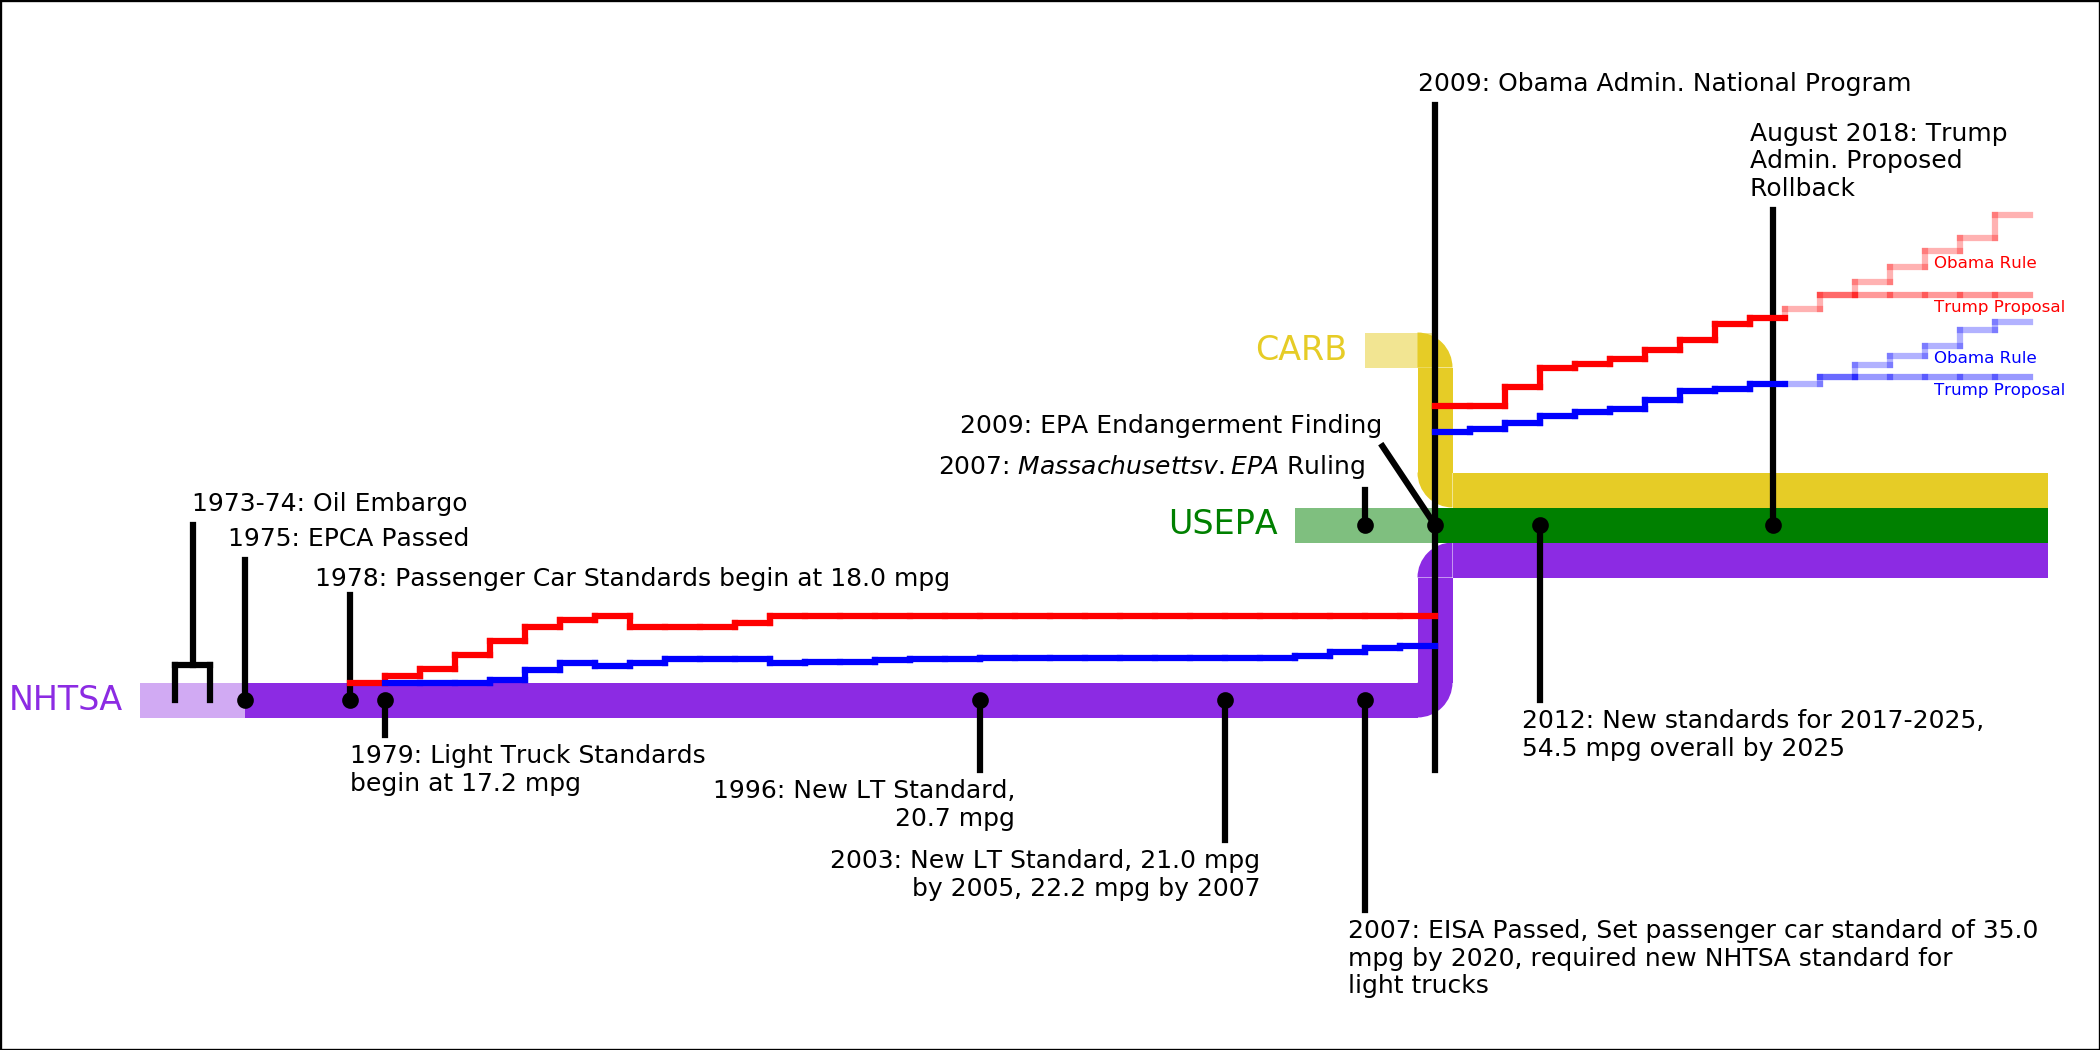
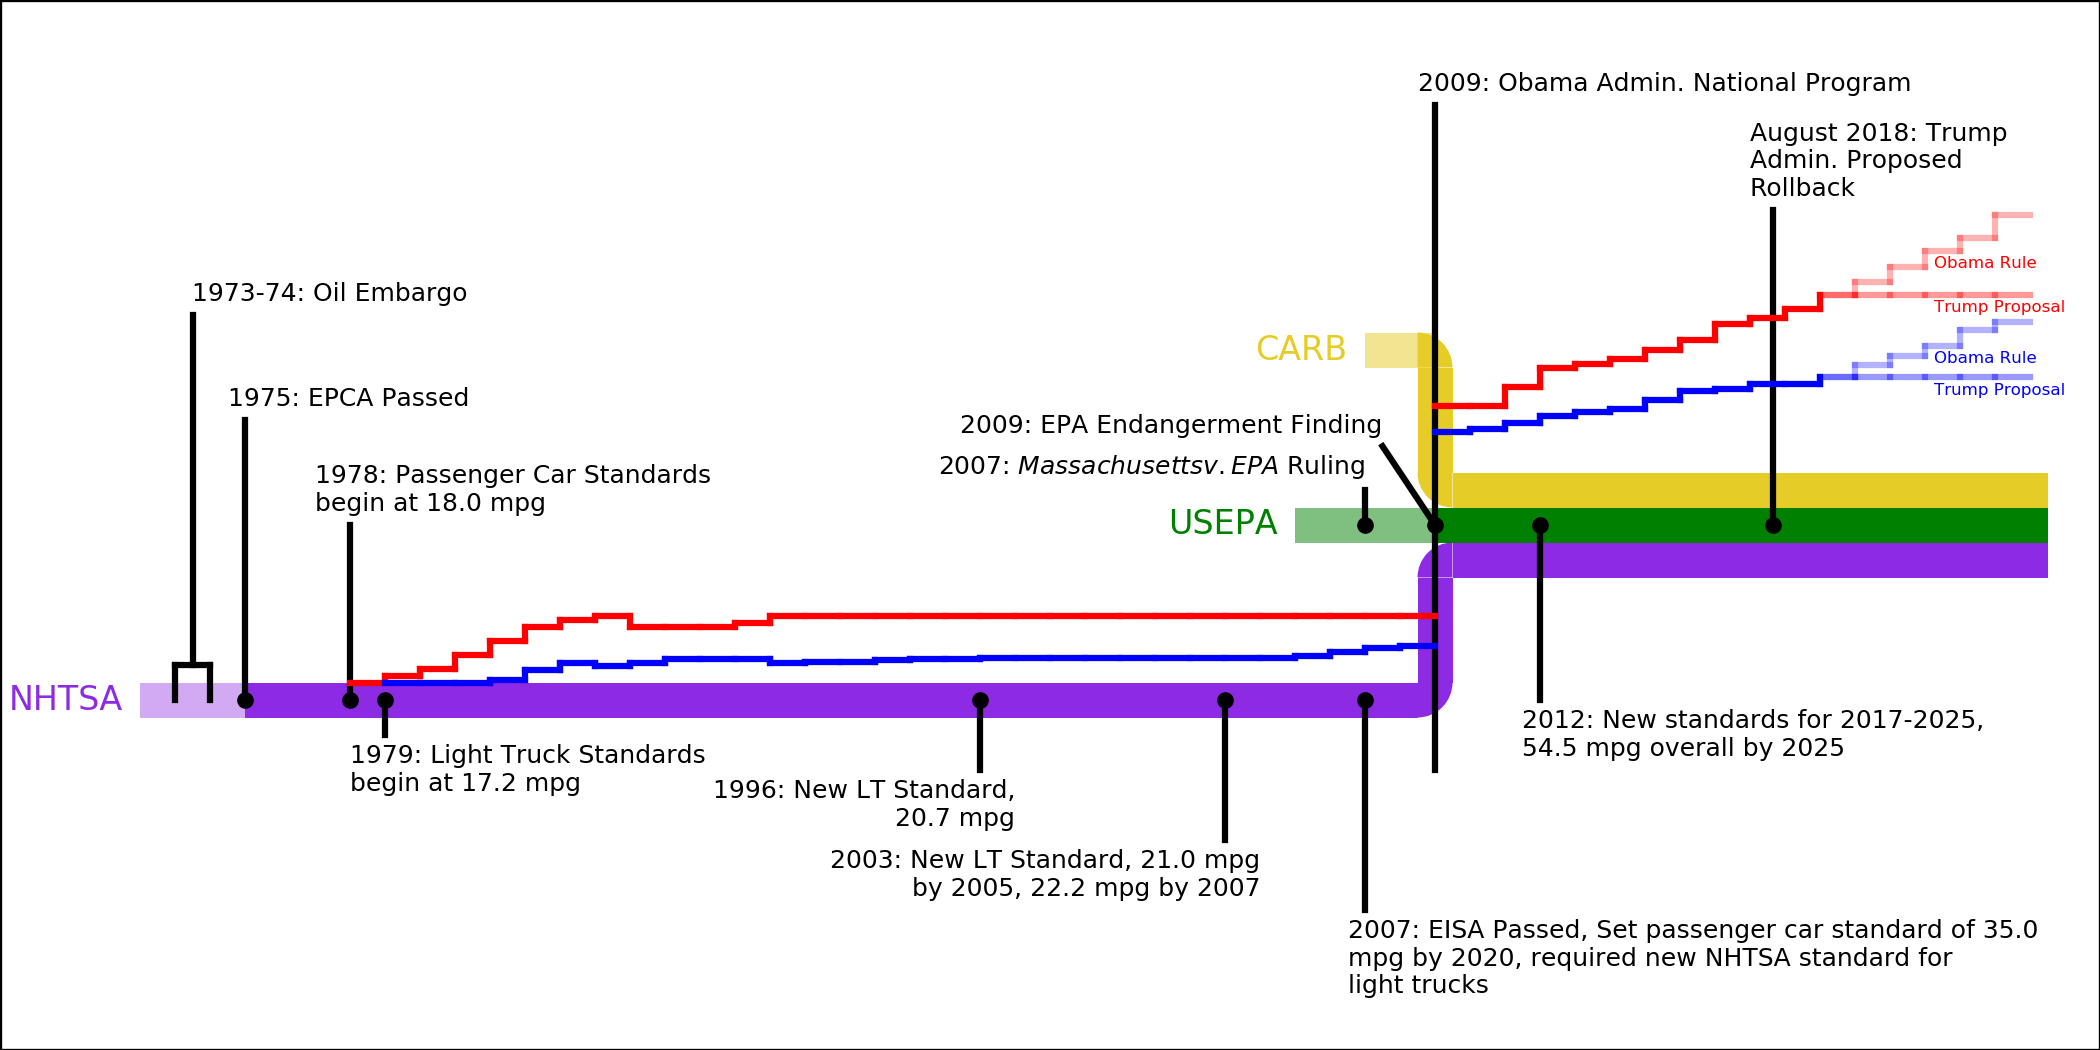
update timeline figure options

diff --git a/timelineFigureNHTSAFlat.py b/timelineFigureNHTSAFlat.py
@@ -46,13 +46,14 @@ def makeAFigure():
 	y_epa = 0
 	y_ca = 5
 
-	y_merged = y_epa 
-	 
+	
 	x_merge = 2009
 
 	fs = 6
-	lineH = 1
+	lineH = 0.5
 	tickH = 1
+
+	y_merged = y_nhtsa + lineH#y_epa 
 
 	data = pd.read_csv("NHTSACAFEData14Aug2019.csv")
 	car = data[data.Year > 1977]
@@ -87,9 +88,9 @@ def makeAFigure():
 	truckTrump['Year'] = yr
 
 	prenhtsa_line = plt.Rectangle((1972, y_nhtsa-lineH/2),3, lineH, color = nhtsa, linewidth = 0, alpha = 0.4)
-	nhtsa_line = plt.Rectangle((1975, y_nhtsa-lineH/2), (x_merge-1975-0.5), lineH, color = nhtsa, linewidth = 0, alpha = 1)
+	nhtsa_line = plt.Rectangle((1975, y_nhtsa-lineH/2), (x_merge-1975), lineH, color = nhtsa, linewidth = 0, alpha = 1)
 	nhtsa_connector = plt.Rectangle((x_merge-lineH/2, y_nhtsa+lineH/2), lineH, y_merged-y_nhtsa-2*lineH, color = nhtsa, linewidth=0)
-	mergednhtsa_line = plt.Rectangle((x_merge+0.5, y_merged-3*lineH/2), (2026.5-x_merge-0.5), lineH, color = nhtsa, linewidth = 0, alpha = 1)
+	mergednhtsa_line = plt.Rectangle((x_merge, y_merged-3*lineH/2), (2026.5-x_merge), lineH, color = nhtsa, linewidth = 0, alpha = 1)
 	plt.text(1971.5, y_nhtsa, 'NHTSA', color = nhtsa, fontsize = fs+2, horizontalalignment = 'right', verticalalignment = 'center')
 
 	nhtsaW1 = mpatches.Wedge((x_merge-0.5, y_nhtsa+lineH/2), lineH, 270, 360, color = nhtsa, linewidth = 0)
@@ -116,7 +117,7 @@ def makeAFigure():
 
 		plt.plot(1996, y_nhtsa, '.k') #light trucks only 
 		plt.plot((1996, 1996), (y_nhtsa, y_nhtsa-2*lineH), '-k')
-		plt.text(1997, y_nhtsa-2.25*lineH, '1996: New LT Standard,\n20.7 mpg', fontsize = fs, horizontalalignment = 'right', verticalalignment = 'top')
+		plt.text(1998, y_nhtsa-2.25*lineH, '1996: New LT Standard,\n20.7 mpg', fontsize = fs, horizontalalignment = 'right', verticalalignment = 'top')
 
 		plt.plot(2003, y_nhtsa, '.k')
 		plt.plot((2003, 2003), (y_nhtsa, y_nhtsa-4*tickH), '-k')
@@ -127,9 +128,11 @@ def makeAFigure():
 		plt.text(2007-0.5, y_nhtsa-6.25*tickH, '2007: EISA Passed, Set passenger car standard of 35.0\nmpg by 2020, required new NHTSA standard for\nlight trucks', fontsize = fs, horizontalalignment = 'left', verticalalignment = 'top')#, rotation = 90)
 	addNHTSADates()
 
-	prepa_line = plt.Rectangle((2005, y_epa-lineH/2), 2009-2005, lineH, color = epa, linewidth = 0, alpha = 0.5)
-	#epa_line = plt.Rectangle((2009, y_epa-lineH/2), 2, lineH, color = epa, linewidth = 0, alpha = 1)
-	mergedepa_line = plt.Rectangle((x_merge, y_merged-lineH/2), (2026.5-x_merge), lineH, color = epa, linewidth = 0, alpha = 1)
+	prepa_line = plt.Rectangle((2005, y_epa-lineH/2), 2009-2005-lineH, lineH, color = epa, linewidth = 0, alpha = 0.5)
+	mergedepa_line = plt.Rectangle((x_merge+lineH/2, y_merged-lineH/2), (2026.5-x_merge-lineH/2), lineH, color = epa, linewidth = 0, alpha = 1)
+	epaW1 = mpatches.Wedge((x_merge-lineH, y_epa-lineH/2), lineH, 0, 90, color = epa, linewidth = 0)
+	epaW2 = mpatches.Wedge((x_merge+lineH, y_merged+3*lineH/2), lineH*2, 180, 270, color = epa, linewidth = 0)
+	epa_connector = plt.Rectangle((x_merge-lineH, y_merged+lineH), lineH, y_epa-y_merged-lineH, color = epa, linewidth=0)
 
 	def addEPADates():
 		plt.plot(2009, y_epa, '.k')
@@ -144,27 +147,27 @@ def makeAFigure():
 	preca_line = plt.Rectangle((2007, y_ca-lineH/2), 2009-2007, lineH, color = ca, linewidth = 0, alpha = 0.5)
 	#ca_line = plt.Rectangle((2005, y_ca-lineH/2), x_merge-2005-0.5, lineH, color = ca, linewidth = 0, alpha = 1)
 	mergedca_line = plt.Rectangle((x_merge+0.5, y_merged+lineH/2), 2026.5-x_merge-0.5, lineH, color = ca, linewidth = 0, alpha = 1)
-	caW1 = mpatches.Wedge((x_merge-lineH/2, y_ca-lineH/2), lineH, 0, 90, color = ca, linewidth = 0)
-	caW2 = mpatches.Wedge((x_merge+lineH/2, y_merged + 3*lineH/2), lineH, 180, 270, color = ca, linewidth = 0)
-	ca_connector = plt.Rectangle((x_merge-lineH/2, y_merged+3*lineH/2), lineH, y_ca-y_merged-2*lineH, color = ca, linewidth=0)
+	caW1 = mpatches.Wedge((x_merge, y_ca-lineH/2), lineH, 0, 90, color = ca, linewidth = 0)
+	caW2 = mpatches.Wedge((x_merge+lineH, y_merged + 3*lineH/2), lineH, 180, 270, color = ca, linewidth = 0)
+	ca_connector = plt.Rectangle((x_merge, y_merged+3*lineH/2), lineH, y_ca-y_merged-2*lineH, color = ca, linewidth=0)
 	plt.text(2006.5, y_ca, 'CARB', horizontalalignment='right', verticalalignment = 'center', color = ca, fontsize = fs+2)
 	#plt.text(1999.5, y_ca+3*lineH/2, 'Anything in CA before they got their waiver in 2009 we should mention?', fontsize=fs, horizontalalignment='right')
 
 	def addMergedDates():
 		plt.plot(2012, y_merged, '.k')
-		plt.plot((2012, 2012), (y_merged, y_merged-5*tickH), '-k')
+		plt.plot((2012, 2012), (y_merged, y_merged-3*tickH), '-k')
 		#plt.text(2011.5, y_merged-5.25*tickH, '2012 Obama Admin. Sets new standards\nfor 2017-2025, 54.5 mpg overall by 2025', fontsize = fs, horizontalalignment = 'left', verticalalignment = 'top')
-		plt.text(2011.5, y_merged-5.25*tickH, '2012: New standards for 2017-2025,\n54.5 mpg overall by 2025', fontsize = fs, horizontalalignment = 'left', verticalalignment = 'top')	
+		plt.text(2011.5, y_merged-3.25*tickH, '2012: New standards for 2017-2025,\n54.5 mpg overall by 2025', fontsize = fs, horizontalalignment = 'left', verticalalignment = 'top')	
 
 		plt.plot(2018.67, y_merged, '.k')
-		plt.plot((2018.67, 2018.67), (y_merged, y_merged+9*lineH), '-k')
+		plt.plot((2018.67, 2018.67), (y_merged, y_merged+18*lineH), '-k')
 		#plt.text(2018, y_merged + 7.25*lineH, 'August 2018 Trump\nAdmin. Proposed\nRollback, fix 2020\nstandards through 2026', fontsize = fs, horizontalalignment = 'left', verticalalignment = 'bottom')
-		plt.text(2018, y_merged + 9.25*lineH, 'August 2018: Trump\nAdmin. Proposed\nRollback', fontsize = fs, horizontalalignment = 'left', verticalalignment = 'bottom')
+		plt.text(2018, y_merged + 18.25*lineH, 'August 2018: Trump\nAdmin. Proposed\nRollback', fontsize = fs, horizontalalignment = 'left', verticalalignment = 'bottom')
 
 
-		plt.plot((2009, 2009), (-7, 12), '-k')
+		plt.plot((2009, 2009), (-7, 9), '-k')
 		#plt.text(2008.5, 9.25+tickH, '2009 Obama Admin. National Program for\nharmonized standards between NHTSA, USEPA,\nCARB, 13 automakers', fontsize = fs, horizontalalignment = 'left', verticalalignment = 'bottom')#, rotation = 90)
-		plt.text(2008.5, 12.25, '2009: Obama Admin. National Program', fontsize = fs, horizontalalignment = 'left', verticalalignment = 'bottom')#, rotation = 90)
+		plt.text(2008.5, 9.25, '2009: Obama Admin. National Program', fontsize = fs, horizontalalignment = 'left', verticalalignment = 'bottom')#, rotation = 90)
 	addMergedDates()
 
 	def addMPGBars():
@@ -177,31 +180,30 @@ def makeAFigure():
 
 		for n in range(len(carAll.Year)):
 			if n<len(carAll.Year)-1:
-				addMPGdata(carAll.Year.iloc[n], carAll.CarStd.iloc[n]/5, carAll.CarStd.iloc[n+1]/5, y_merged+3*lineH/2, 1, 'car', 0)
+				addMPGdata(carAll.Year.iloc[n], carAll.CarStd.iloc[n]/5, carAll.CarStd.iloc[n+1]/5, y_merged-lineH/2, 1, 'car', 0)
 			else:
-				addMPGdata(carAll.Year.iloc[n], carAll.CarStd.iloc[n]/5, 0, y_merged+3*lineH/2, 1, 'car', 1)
+				addMPGdata(carAll.Year.iloc[n], carAll.CarStd.iloc[n]/5, 0, y_merged-lineH/2, 1, 'car', 1)
 			#ax1.add_patch(r)
 
 		for n in range(len(carObama.Year)):
 			if n<len(carObama.Year)-1:
-				if carObama.Year[n]<2020:
-					addMPGdata(carObama.Year.iloc[n], carObama.CarStd.iloc[n]/5, carObama.CarStd.iloc[n+1]/5, y_merged+3*lineH/2, 1, 'car', 0)
+				if carObama.Year[n]<2020: 
+					addMPGdata(carObama.Year.iloc[n], carObama.CarStd.iloc[n]/5, carObama.CarStd.iloc[n+1]/5, y_merged-lineH/2, 1, 'car', 0)
 				else: 
-					addMPGdata(carObama.Year.iloc[n], carObama.CarStd.iloc[n]/5, carObama.CarStd.iloc[n+1]/5, y_merged+3*lineH/2, 0.3, 'car', 0)
+					addMPGdata(carObama.Year.iloc[n], carObama.CarStd.iloc[n]/5, carObama.CarStd.iloc[n+1]/5, y_merged-lineH/2, 0.3, 'car', 0)
 			else:
-				addMPGdata(carObama.Year.iloc[n], carObama.CarStd.iloc[n]/5, 0, y_merged+3*lineH/2, 0.3, 'car', 1)
-			#ax1.add_patch(r)
-		plt.text(carObama.Year.iloc[-3]+0.25, carObama.CarStd.iloc[-3]/5+y_merged+lineH, 'Obama Rule', fontsize = fs-2, color = carcolor)
+				addMPGdata(carObama.Year.iloc[n], carObama.CarStd.iloc[n]/5, 0, y_merged-lineH/2, 0.3, 'car', 1)
+		plt.text(carObama.Year.iloc[-3]+0.25, carObama.CarStd.iloc[-3]/5+y_merged+2*lineH, 'Obama Rule', fontsize = fs-2, color = carcolor)
 
 		for n in range(len(carTrump.Year)):
 			#if n<len(carTrump.Year)-1:
 			#addMPGdata(carTrump.Year.iloc[n], carTrump.CarStd.iloc[n]/5, carTrump.CarStd.iloc[n+1]/5, y_merged+3*lineH/2, 0.4, 'car', 1)
 		#	else:
-			addMPGdata(carTrump.Year.iloc[n], carTrump.CarStd.iloc[n]/5, 0, y_merged+3*lineH/2, 0.4, 'car', 1)
+			addMPGdata(carTrump.Year.iloc[n], carTrump.CarStd.iloc[n]/5, 0, y_merged-lineH/2, 0.4, 'car', 1)
 			#ax1.add_patch(r)
-		plt.text(carTrump.Year.iloc[-3]+0.25, carTrump.CarStd.iloc[-3]/5+y_merged+lineH, 'Trump Proposal', fontsize = fs-2, color = carcolor)
+		plt.text(carTrump.Year.iloc[-3]+0.25, carTrump.CarStd.iloc[-3]/5+y_merged, 'Trump Proposal', fontsize = fs-2, color = carcolor)
 
-		plt.plot((carObama.Year.iloc[0], carObama.Year.iloc[0]), (carObama.CarStd.iloc[0]/5+y_merged+3*lineH/2, carAll.CarStd.iloc[-1]/5+y_merged+3*lineH/2), color = carcolor, alpha = 1)
+		plt.plot((carObama.Year.iloc[0], carObama.Year.iloc[0]), (carObama.CarStd.iloc[0]/5+y_merged-lineH/2, carAll.CarStd.iloc[-1]/5+y_merged-lineH/2), color = carcolor, alpha = 1)
 
 		for n in range(len(truckNHTSA.Year)):
 			if n<len(truckNHTSA.Year)-1:
@@ -212,27 +214,27 @@ def makeAFigure():
 
 		for n in range(len(truckAll.Year)):
 			if n <len(truckAll.Year)-1:
-				addMPGdata(truckAll.Year.iloc[n], truckAll.LTStd.iloc[n]/5, truckAll.LTStd.iloc[n+1]/5, y_merged+3*lineH/2, 1, 'truck', 0)
+				addMPGdata(truckAll.Year.iloc[n], truckAll.LTStd.iloc[n]/5, truckAll.LTStd.iloc[n+1]/5, y_merged-lineH/2, 1, 'truck', 0)
 			else:
-				addMPGdata(truckAll.Year.iloc[n], truckAll.LTStd.iloc[n]/5, 1, y_merged+3*lineH/2, 1, 'truck', 1)
+				addMPGdata(truckAll.Year.iloc[n], truckAll.LTStd.iloc[n]/5, 1, y_merged-lineH/2, 1, 'truck', 1)
 			#ax1.add_patch(r)
 
 		for n in range(len(truckObama.Year)):
 			if n <len(truckObama.Year)-1:
-				if truckObama.Year[n]<2020:
-					addMPGdata(truckObama.Year.iloc[n], truckObama.LTStd.iloc[n]/5, truckObama.LTStd.iloc[n+1]/5, y_merged+3*lineH/2, 1, 'truck',0)
+				if truckObama.Year[n] < 2020:
+					addMPGdata(truckObama.Year.iloc[n], truckObama.LTStd.iloc[n]/5, truckObama.LTStd.iloc[n+1]/5, y_merged-lineH/2, 1, 'truck',0)
 				else: 
-					addMPGdata(truckObama.Year.iloc[n], truckObama.LTStd.iloc[n]/5, truckObama.LTStd.iloc[n+1]/5, y_merged+3*lineH/2, 0.3, 'truck',0)
+					addMPGdata(truckObama.Year.iloc[n], truckObama.LTStd.iloc[n]/5, truckObama.LTStd.iloc[n+1]/5, y_merged-lineH/2, 0.3, 'truck',0)
 			else:
-				addMPGdata(truckObama.Year.iloc[n], truckObama.LTStd.iloc[n]/5, 0, y_merged+3*lineH/2, 0.3, 'truck',1)
+				addMPGdata(truckObama.Year.iloc[n], truckObama.LTStd.iloc[n]/5, 0, y_merged-lineH/2, 0.3, 'truck',1)
 			#ax1.add_patch(r)
 		plt.text(truckObama.Year.iloc[-3]+0.25, truckObama.LTStd.iloc[-3]/5+y_merged+lineH, 'Obama Rule', fontsize = fs-2, color = truckcolor)
 		plt.plot((truckObama.Year.iloc[0], truckObama.Year.iloc[0]), (truckObama.LTStd.iloc[0]/5+y_merged+3*lineH/2, truckAll.LTStd.iloc[-1]/5+y_merged+3*lineH/2), color = truckcolor, alpha = 0.3)
 
 
 		for n in range(len(truckTrump.Year)):
-			addMPGdata(truckTrump.Year.iloc[n], truckTrump.LTStd.iloc[n]/5, 0, y_merged+3*lineH/2, 0.4, 'truck',1)
-		plt.text(truckTrump.Year.iloc[-3]+0.25, truckTrump.LTStd.iloc[-3]/5+y_merged+lineH, 'Trump Proposal', fontsize = fs-2, color = truckcolor)
+			addMPGdata(truckTrump.Year.iloc[n], truckTrump.LTStd.iloc[n]/5, 0, y_merged-lineH/2, 0.4, 'truck',1)
+		plt.text(truckTrump.Year.iloc[-3]+0.25, truckTrump.LTStd.iloc[-3]/5+y_merged-2*lineH, 'Trump Proposal', fontsize = fs-2, color = truckcolor)
 			#ax1.add_patch(r)
 	addMPGBars()
 	
@@ -243,13 +245,16 @@ def makeAFigure():
 	ax1.add_patch(prenhtsa_line)
 	ax1.add_patch(nhtsa_line)
 	ax1.add_patch(mergednhtsa_line)
-	ax1.add_patch(nhtsaW1)
-	ax1.add_patch(nhtsaW2)
-	ax1.add_patch(nhtsa_connector)
+	#ax1.add_patch(nhtsaW1)
+	#ax1.add_patch(nhtsaW2)
+	#ax1.add_patch(nhtsa_connector)
 
 	ax1.add_patch(prepa_line)
 	#ax1.add_patch(epa_line)
 	ax1.add_patch(mergedepa_line)
+	ax1.add_patch(epaW1)
+	ax1.add_patch(epaW2)
+	ax1.add_patch(epa_connector)
 
 	ax1.add_patch(preca_line)
 	#ax1.add_patch(ca_line)
@@ -266,7 +271,7 @@ def makeAFigure():
 
 	#matplotlib.patches.Patch(edgecolor=None, facecolor=None, color=None, linewidth=None, linestyle=None, antialiased=None, hatch=None, fill=True, capstyle=None, joinstyle=None, **kwargs)
 
-	plt.savefig('TimelineFigure.png', dpi = 300)
+	plt.savefig('TimelineFigureNHTSACenter.png', dpi = 300)
 	plt.clf()
 
 makeAFigure()
